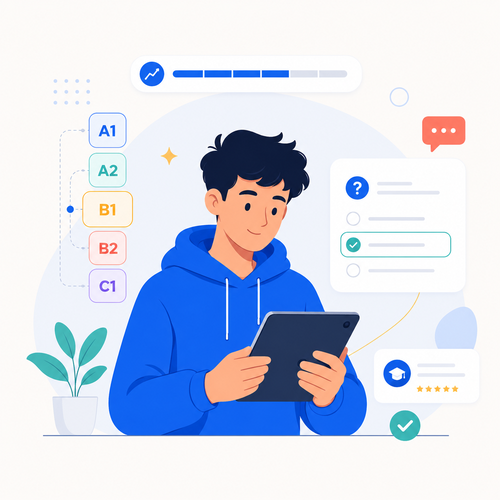
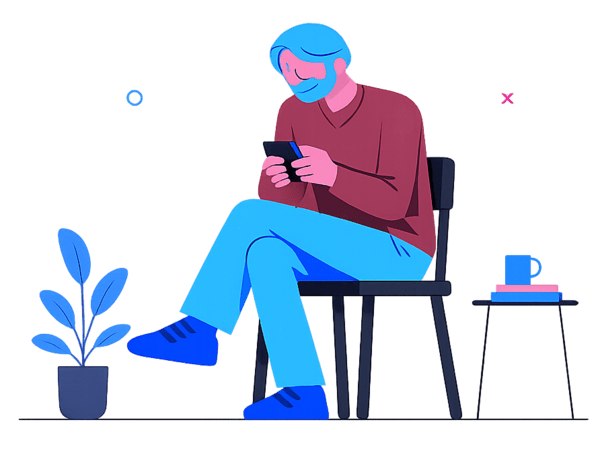
refactor(PlacementPage): enhance layout and integrate new components for improved UI

diff --git a/src/features/placement/PlacementPage.tsx b/src/features/placement/PlacementPage.tsx
@@ -8,8 +8,11 @@ import { PlacementService } from '../../api/Learnup';
 import type { SubmitPlacementRequest } from '../../api/Learnup/models/SubmitPlacementRequest';
 import { AppLoader } from '../../shared/components/AppLoader';
 import { DefaultHeader } from '../../shared/components/DefaultHeader';
+import { DotGrid } from '../../shared/components/DotGrid';
+import { DurationBadge } from '../../shared/components/DurationBadge';
 import { ErrorPage } from '../../shared/components/ErrorPage';
 import { FancyButton } from '../../shared/components/FancyButton';
+import { Scaffold } from '../../shared/components/Scaffold';
 import { toast } from '../../shared/toast';
 import { PlacementQuestionCard } from './components/PlacementQuestionCard';
 import PlacementResult from './components/PlacementResult';
@@ -120,23 +123,23 @@ export default function PlacementPage () {
   }
 
   return (
-    <Stack sx={{ minHeight: '100%', height: '100%' }}>
-      <DefaultHeader header="آزمون تعیین سطح" />
+    <Scaffold header={<DefaultHeader header="آزمون تعیین سطح" />}>
+
+      <DotGrid />
 
       <Box sx={{ flex: 1, overflow: 'hidden', display: 'flex', flexDirection: 'column', alignItems: 'stretch' }}>
 
         {phase === 'intro' && testQuery.data && (
-          <Stack spacing={1} sx={{ p: 3, overflow: 'auto', flex: 1 }}>
+          <Stack spacing={2} sx={{ p: 3, overflow: 'auto', flex: 1 }}>
             <Box
               sx={{
                 width: '100%',
                 maxWidth: 360,
                 mx: 'auto',
                 mb: 1,
-                aspectRatio: '16 / 10',
+                aspectRatio: '3/2.2',
                 borderRadius: 3,
                 overflow: 'hidden',
-                bgcolor: 'background.paper',
               }}
             >
               <Box
@@ -144,6 +147,7 @@ export default function PlacementPage () {
                 src="/images/placement.png"
                 alt=""
                 sx={{
+                  bgcolor: 'transparent',
                   display: 'block',
                   width: '100%',
                   height: '100%',
@@ -152,7 +156,10 @@ export default function PlacementPage () {
               />
             </Box>
 
-            <Typography variant="h6">{testQuery.data.title}</Typography>
+            <Stack direction="row" spacing={1} sx={{ alignItems: 'end', justifyContent: 'space-between' }}>
+              <Typography variant="h6">{testQuery.data.title}</Typography>
+              <DurationBadge minutes={'10'} />
+            </Stack>
 
             {testQuery.data.description && (
               <Typography variant="body1" sx={{ color: 'text.secondary' }}>
@@ -160,10 +167,9 @@ export default function PlacementPage () {
               </Typography>
             )}
 
-            <Box sx={{ flex: 1 }} />
+            <Box />
             <FancyButton
-              onClick={handleStart}
-              sx={{ borderRadius: 999 }}>
+              onClick={handleStart}>
               شروع آزمون
             </FancyButton>
           </Stack>
@@ -212,7 +218,7 @@ export default function PlacementPage () {
                       disabled={!allAnswered || submitMutation.isPending}
                       onClick={handleSubmit}
                     >
-                      پایان / ثبت
+                      بررسی و ثبت
                     </Button>
                   ) : (
                     <Button
@@ -243,6 +249,6 @@ export default function PlacementPage () {
         )}
 
       </Box>
-    </Stack>
+    </Scaffold>
   );
 }

diff --git a/src/App.tsx b/src/App.tsx
@@ -14,10 +14,10 @@ import LessonGrammarTestsPage from "./features/GrammarTests/LessonGrammarTestsPa
 import BoxLevelReviewPage from "./features/leitnerBox/BoxLevelReviewPage";
 import LeitnerBoxPage from "./features/leitnerBox/LeitnerBoxPage";
 import LessonDetailPage from "./features/lessons/LessonDetailPage";
-import PlacementPage from "./features/placement/PlacementPage";
 import BookDetailPage from "./features/library/BookDetailPage";
 import ListBooksPage from "./features/library/ListBooksPage";
 import UploadBookPage from "./features/library/UploadBookPage";
+import PlacementPage from "./features/placement/PlacementPage";
 import ProfilePage from "./features/profile/ProfilePage";
 import SubscriptionsPage from "./features/settings/SubscriptionsPage";
 import StoryDetailPage from "./features/stories/StoryDetailPage";
@@ -27,7 +27,7 @@ import LessonVocabTestsPage from "./features/VocabTests/LessonVocabTestsPage";
 import { BottomNav, isBottomNavVisible } from "./shared/components/BottomNav";
 setupOpenApi();
 
-function AppLayout() {
+function AppLayout () {
   const location = useLocation();
   const hasBottomNav = isBottomNavVisible(location.pathname);
 
@@ -102,7 +102,7 @@ function AppLayout() {
   );
 }
 
-function App() {
+function App () {
   return (
     <BrowserRouter>
       <AppLayout />
